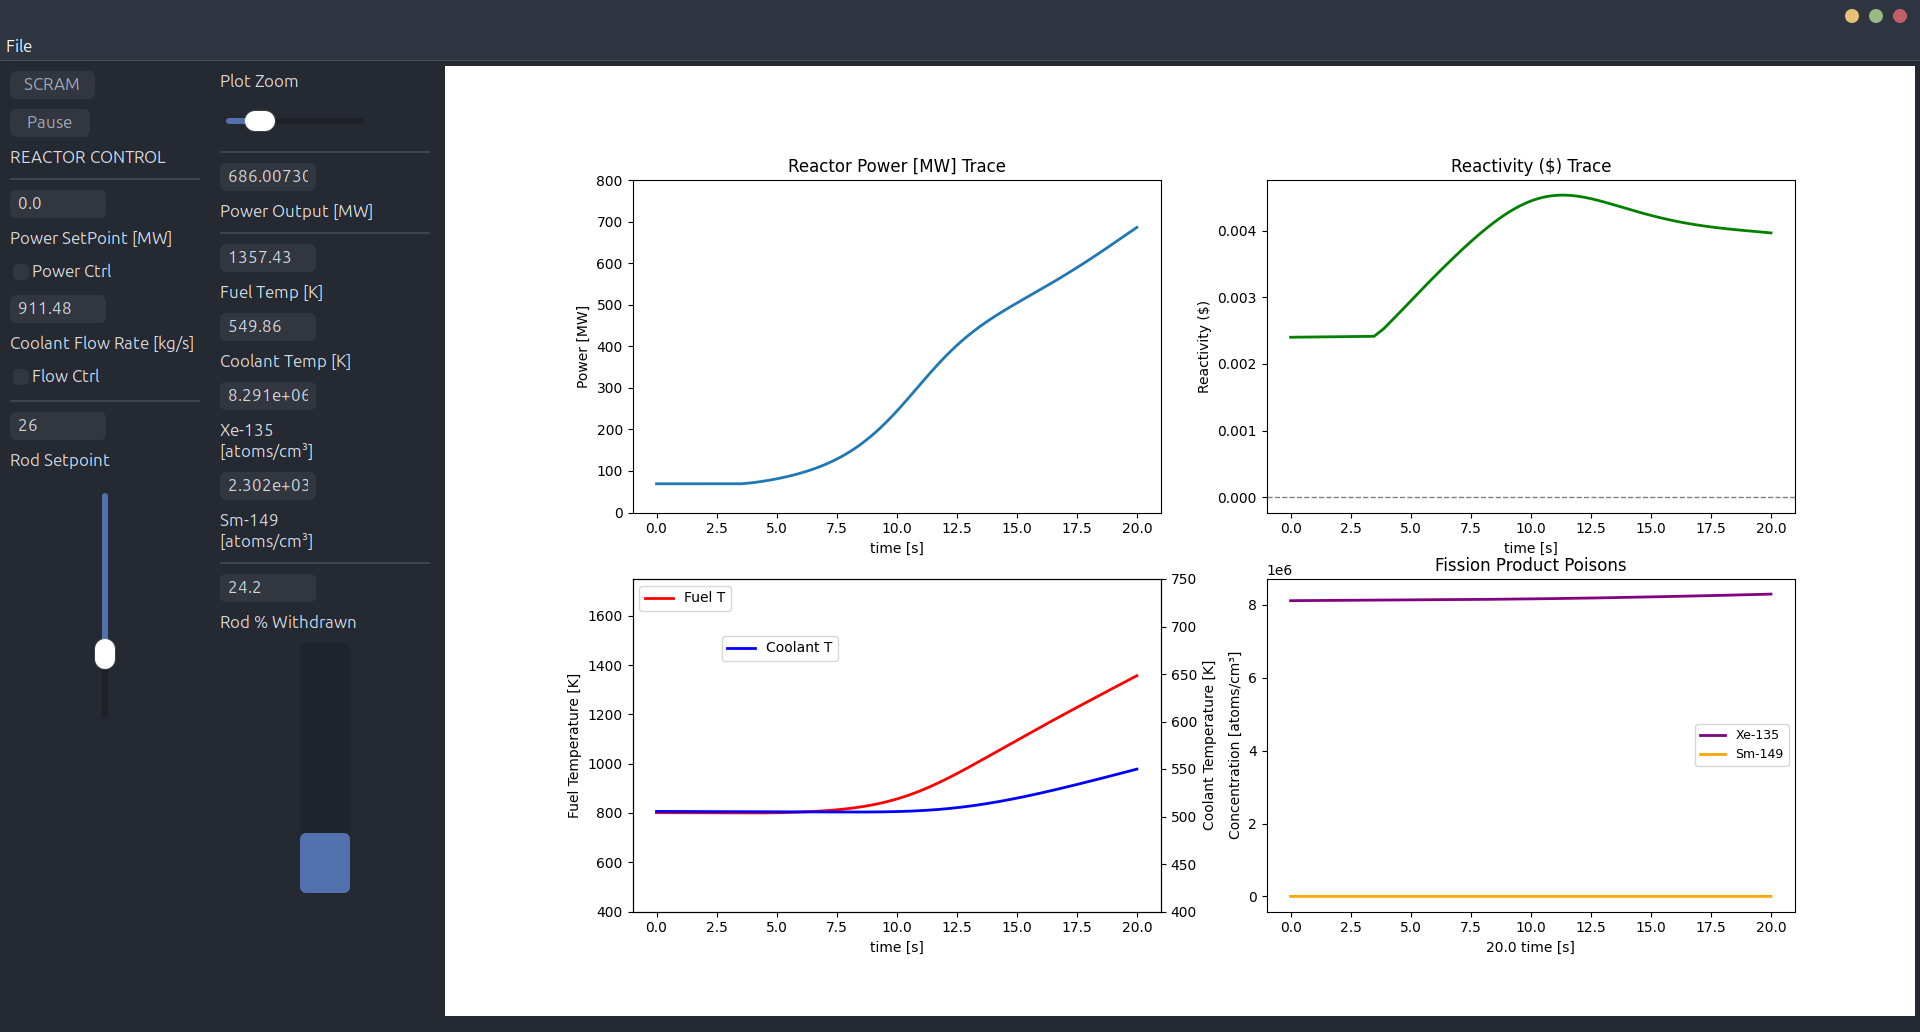
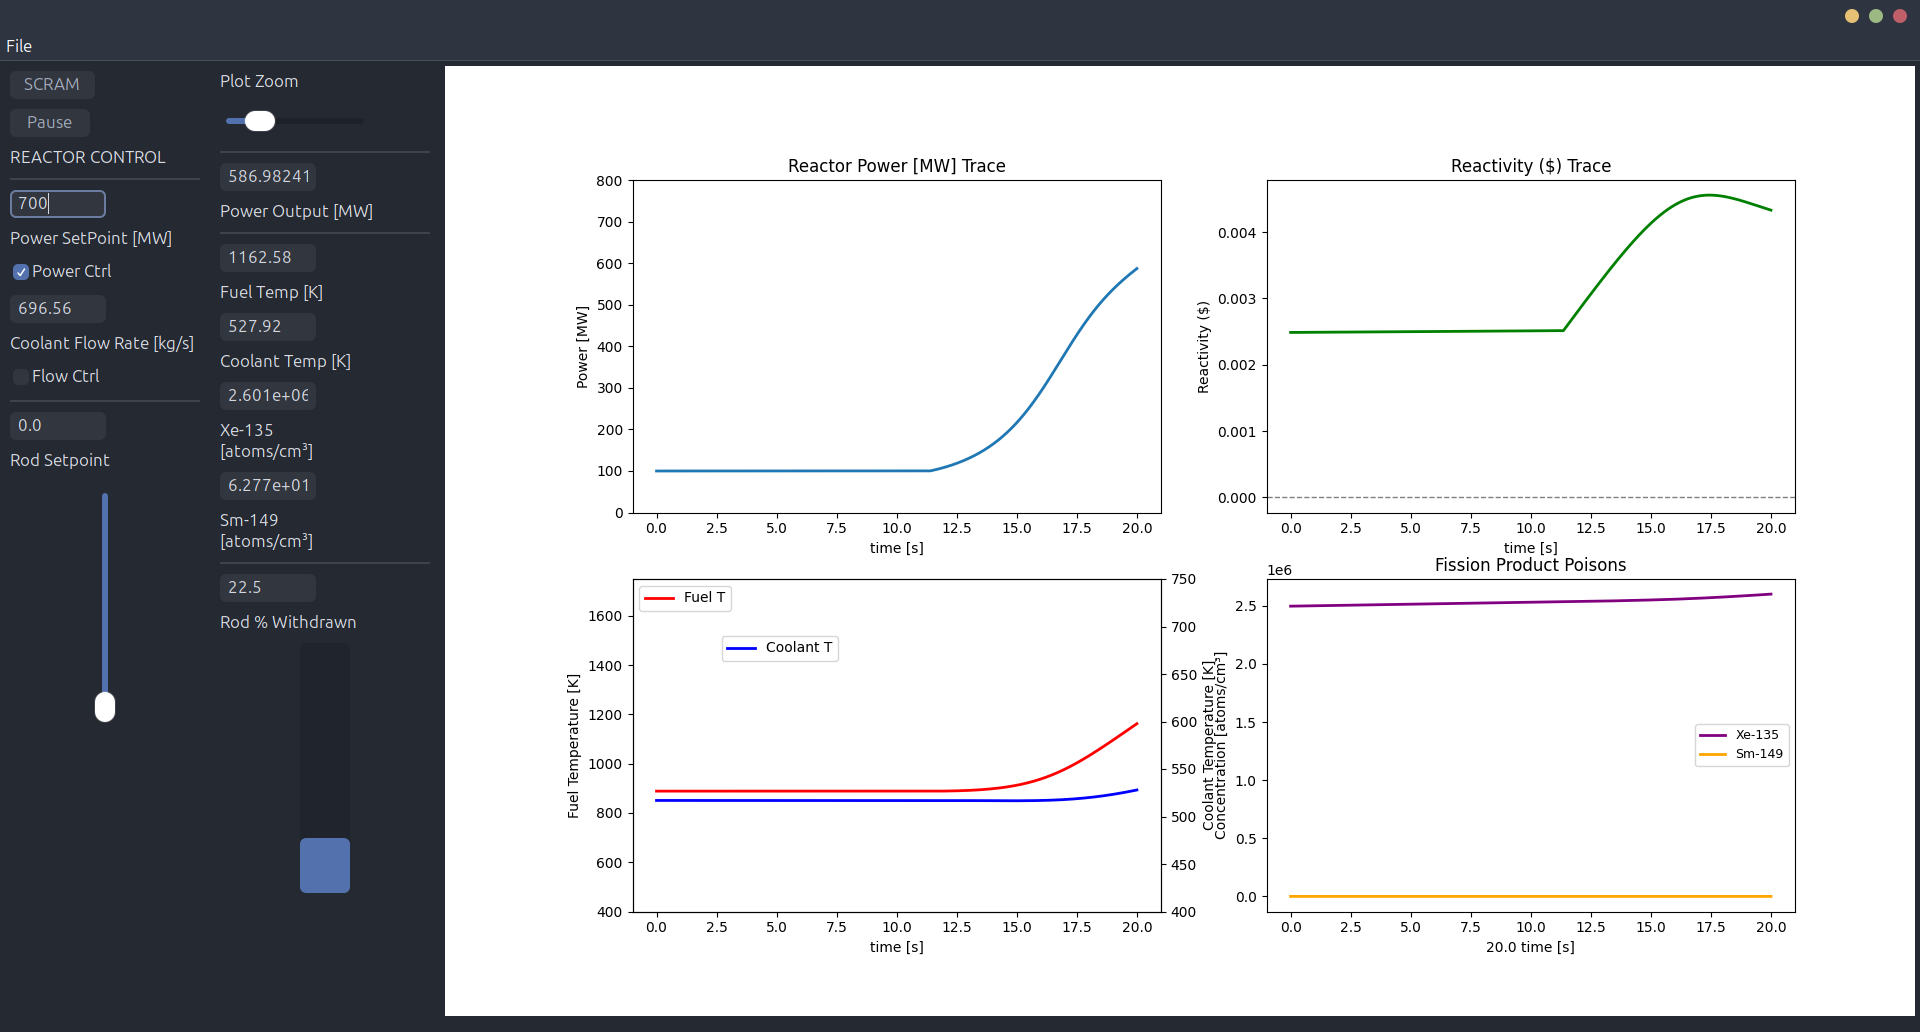
set initial mdotC to 200.0

diff --git a/reactor.py b/reactor.py
@@ -32,8 +32,8 @@ class DUNEReactor(object):
         self.t = np.array([0, self.tstep])
         self.hrate = 0.0  # rod movement rate [% / s]
         self.rodSetPoint = 0.0  # initial rod setpoint [%]
-        self.mdotC = 1000.e3  # coolant flow rate [g / s]
-        self.coolantSetPoint = 1000.e3
+        self.mdotC = 200.e3  # coolant flow rate [g / s]
+        self.coolantSetPoint = 200.e3
         self.pwrCtrl = False
         self.coolantCtrl = False
         self.scramToggle = False
